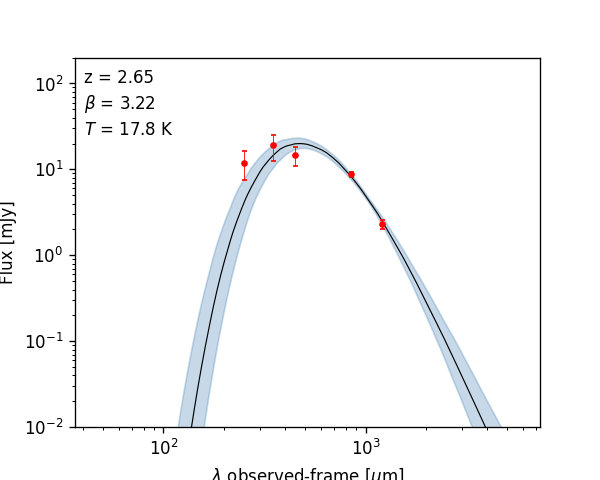
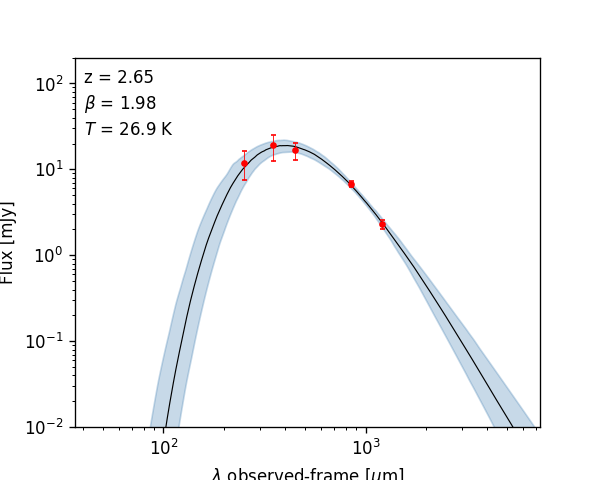
edits to docs

Changed region(s): [[0.24, 0.2812, 0.9, 0.9062], [0.18, 0.1875, 0.27, 0.2812]]

diff --git a/docs/quickstart.rst b/docs/quickstart.rst
@@ -36,10 +36,10 @@ Most often, you want to fit a given model to photometric data points. ``mbb`` al
 
     phot = (
         [250, 350, 450, 850, 1200], # wavelength in microns
-        [0.012, 0.019, 0.0146, 0.00883, 0.0023], # flux in Jy
+        [0.012, 0.019, 0.0166, 0.00683, 0.0023], # flux in Jy
         [0.0044, 0.0064, 0.0036, 0.00057, 0.0003]  # error in Jy
         )
-    m.fit(phot=phot, niter=500, params=['L', 'T', 'beta'], restframe=False)
+    result = m.fit(phot=phot, niter=500, params=['L', 'T', 'beta'], restframe=False)
 
 .. code-block:: bash
 
@@ -48,6 +48,7 @@ Most often, you want to fit a given model to photometric data points. ``mbb`` al
     Running fitter...
     100%|█████████████████████████████████████████| 500/500 [00:12<00:00, 41.62it/s]
     Done 
+
 
 You specify which parameters to fit using the ``params`` keyword argument; the options are ``L``, ``T``, ``beta``, ``alpha``, ``l0``, or ``z`` (the latter if you want to use ``mbb`` as a far-infrared photometric redshift code).
 
@@ -71,6 +72,9 @@ You can also make a simple corner plot of the parameters that were varied:
     fig = m.plot_corner()
     plt.show()
 
+.. image:: ex_plt_3.png
+   :width: 350px
+
 The basic plotting routines are fairly sparse, but most plot aspects can be modified, or you can write your own functions to produce higher quality / publication-ready figures.
 
 
@@ -86,7 +90,7 @@ Each key of ``priors`` should be the name of a parameter, and each value is eith
 
 .. code-block:: python
 
-    m.fit(phot=phot, niter=500, params=['L', 'T', 'beta'], 
+    result = m.fit(phot=phot, niter=500, params=['L', 'T', 'beta'], 
         restframe=False, priors = {'beta':dict(mu=1.8,sigma=0.3))
 
 Working with the fit results
